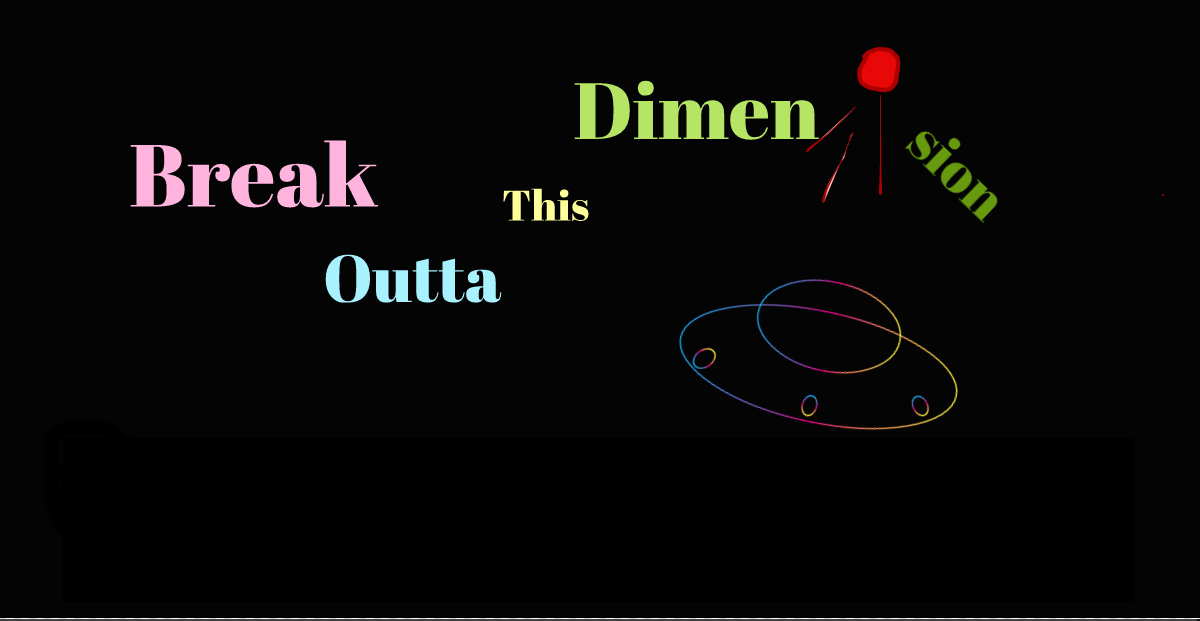
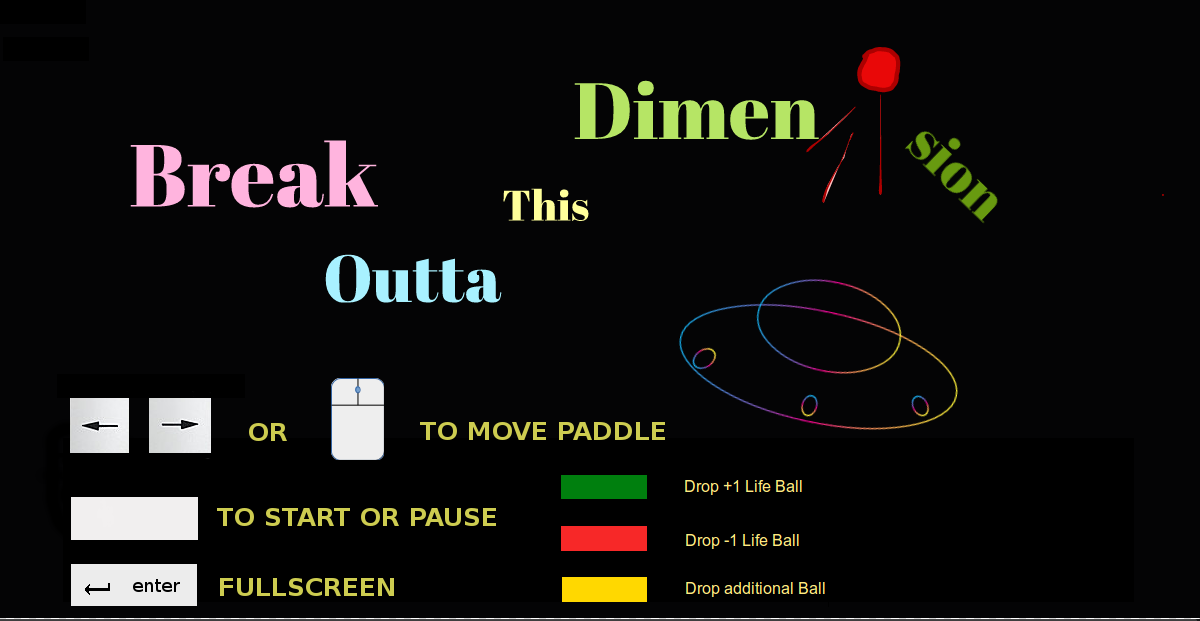
add gitignore file, edit landing screen

diff --git a/lib/paddle.js b/lib/paddle.js
@@ -10,7 +10,7 @@ function keyDownHandler(e) {
     rightPressed = true;
   } else if (e.keyCode == 37) {
     leftPressed = true;
-  } else if (e.keyCode == 77) { // m for menu
+  } else if (e.keyCode == 80) { // p for pause
     togglePause();
   }
 }
@@ -20,7 +20,7 @@ function keyUpHandler(e) {
     rightPressed = false;
   } else if (e.keyCode == 37) {
     leftPressed = false;
-  } else if (e.keyCode == 13) {
+  } else if (e.keyCode == 13) { // enter
     toggleFullScreen();
   }
 }
